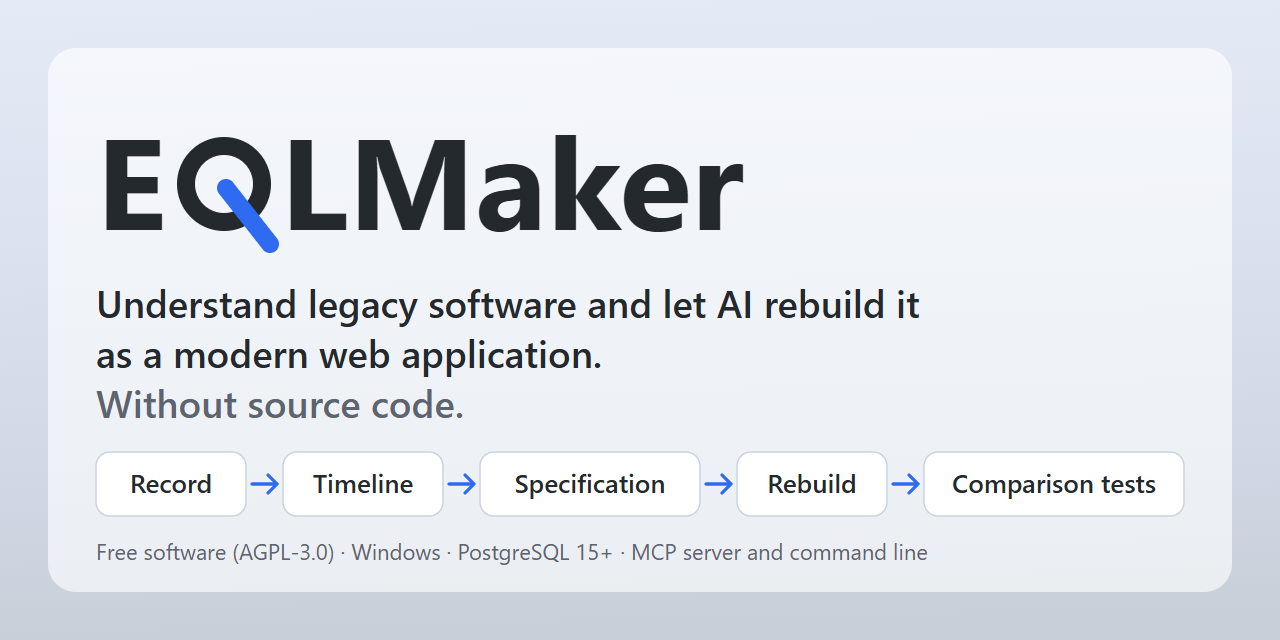
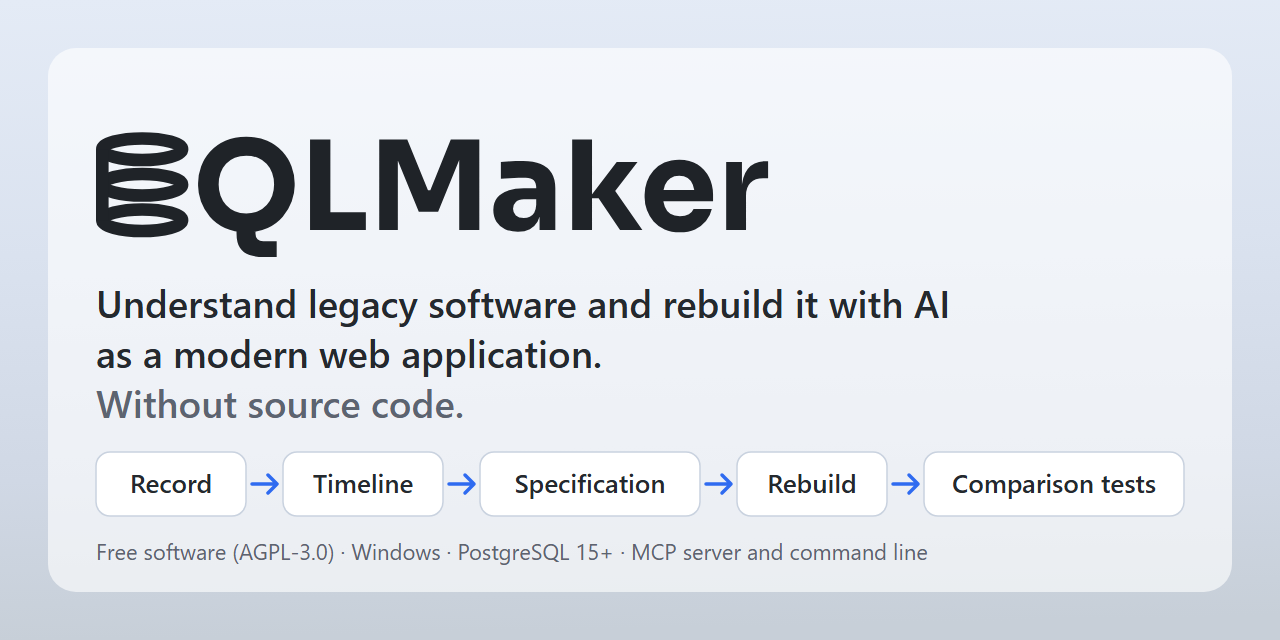
Word mark, tagline and links as on eqlmaker.org

Changed region(s): [[0.0625, 0.1875, 0.625, 0.4062], [0.5, 0.4375, 0.75, 0.5]]

diff --git a/README.md b/README.md
@@ -8,7 +8,7 @@
   </picture>
 </h1>
 
-<p align="center"><b>Alte Software verstehen und von KI automatisch als moderne Webanwendung nachbauen lassen. Ohne Quellcode.</b></p>
+<p align="center"><b>Alte Software verstehen und mit KI als moderne Webanwendung nachbauen. Ohne Quellcode.</b></p>
 
 <p align="center">
   <img alt="Status: in Entwicklung" src="https://img.shields.io/badge/Status-in%20Entwicklung-orange">
@@ -21,7 +21,6 @@
 </p>
 
 <!-- docs/media/demo.gif : die Demo-Animation folgt mit der ersten Veröffentlichung (erzeugt von scripts/demo/make-demo.ps1) -->
-<!-- check-docs: links -1 --><!-- die Videozeile der deutschen Fassung nennt eine Adresse weniger als die englische -->
 
 EQLMaker schaut bei der Bedienung zu, misst, was dabei in der Datenbank geschieht, und liest das Handbuch. Daraus entsteht die Grundlage für einen Nachbau, der sich mit Vergleichstests belegen lässt.
 
@@ -110,7 +109,7 @@ Alle Schritte gibt es auch als Werkzeuge eines **MCP-Servers**.
 | Contoso University (Microsoft-Beispiel) | ASP.NET Core · SQL Server | 14 Min. | 32 / 32 GUI-Funktionen (100 %) |
 | Dolibarr ERP/CRM (Open Source) | PHP · PostgreSQL | 3 Std. 09 Min. | 81 / 93 GUI-Funktionen (87 %) |
 
-▶ **Videos (Original und Nachbau nebeneinander):** [eqlserver.de/eqlmaker](https://eqlserver.de/eqlmaker/)
+▶ **Videos (Original und Nachbau nebeneinander):** [eqlmaker.org](https://eqlmaker.org/de/)
 
 <sub>Die Anwendungen stammen von Drittherstellern oder sind quelloffen. Produkt- und Herstellernamen fremder Programme sind anonymisiert.</sub>
 

diff --git a/README.en.md b/README.en.md
@@ -8,7 +8,7 @@
   </picture>
 </h1>
 
-<p align="center"><b>Understand legacy software and let AI rebuild it automatically as a modern web application. Without source code.</b></p>
+<p align="center"><b>Understand legacy software and rebuild it with AI as a modern web application. Without source code.</b></p>
 
 <p align="center">
   <img alt="Status: in development" src="https://img.shields.io/badge/Status-in%20development-orange">
@@ -109,7 +109,7 @@ All steps are also available as tools of an **MCP server**.
 | Contoso University (Microsoft sample) | ASP.NET Core · SQL Server | 14 min | 32 / 32 GUI functions (100 %) |
 | Dolibarr ERP/CRM (open source) | PHP · PostgreSQL | 3 h 09 min | 81 / 93 GUI functions (87 %) |
 
-▶ **Videos (original and rebuild side by side):** [eqlserver.com](https://eqlserver.com) · [eqlserver.de/eqlmaker](https://eqlserver.de/eqlmaker/)
+▶ **Videos (original and rebuild side by side):** [eqlmaker.org](https://eqlmaker.org/)
 
 <sub>The applications come from third-party vendors or are open source. Product and vendor names of third-party programs are anonymized.</sub>
 
